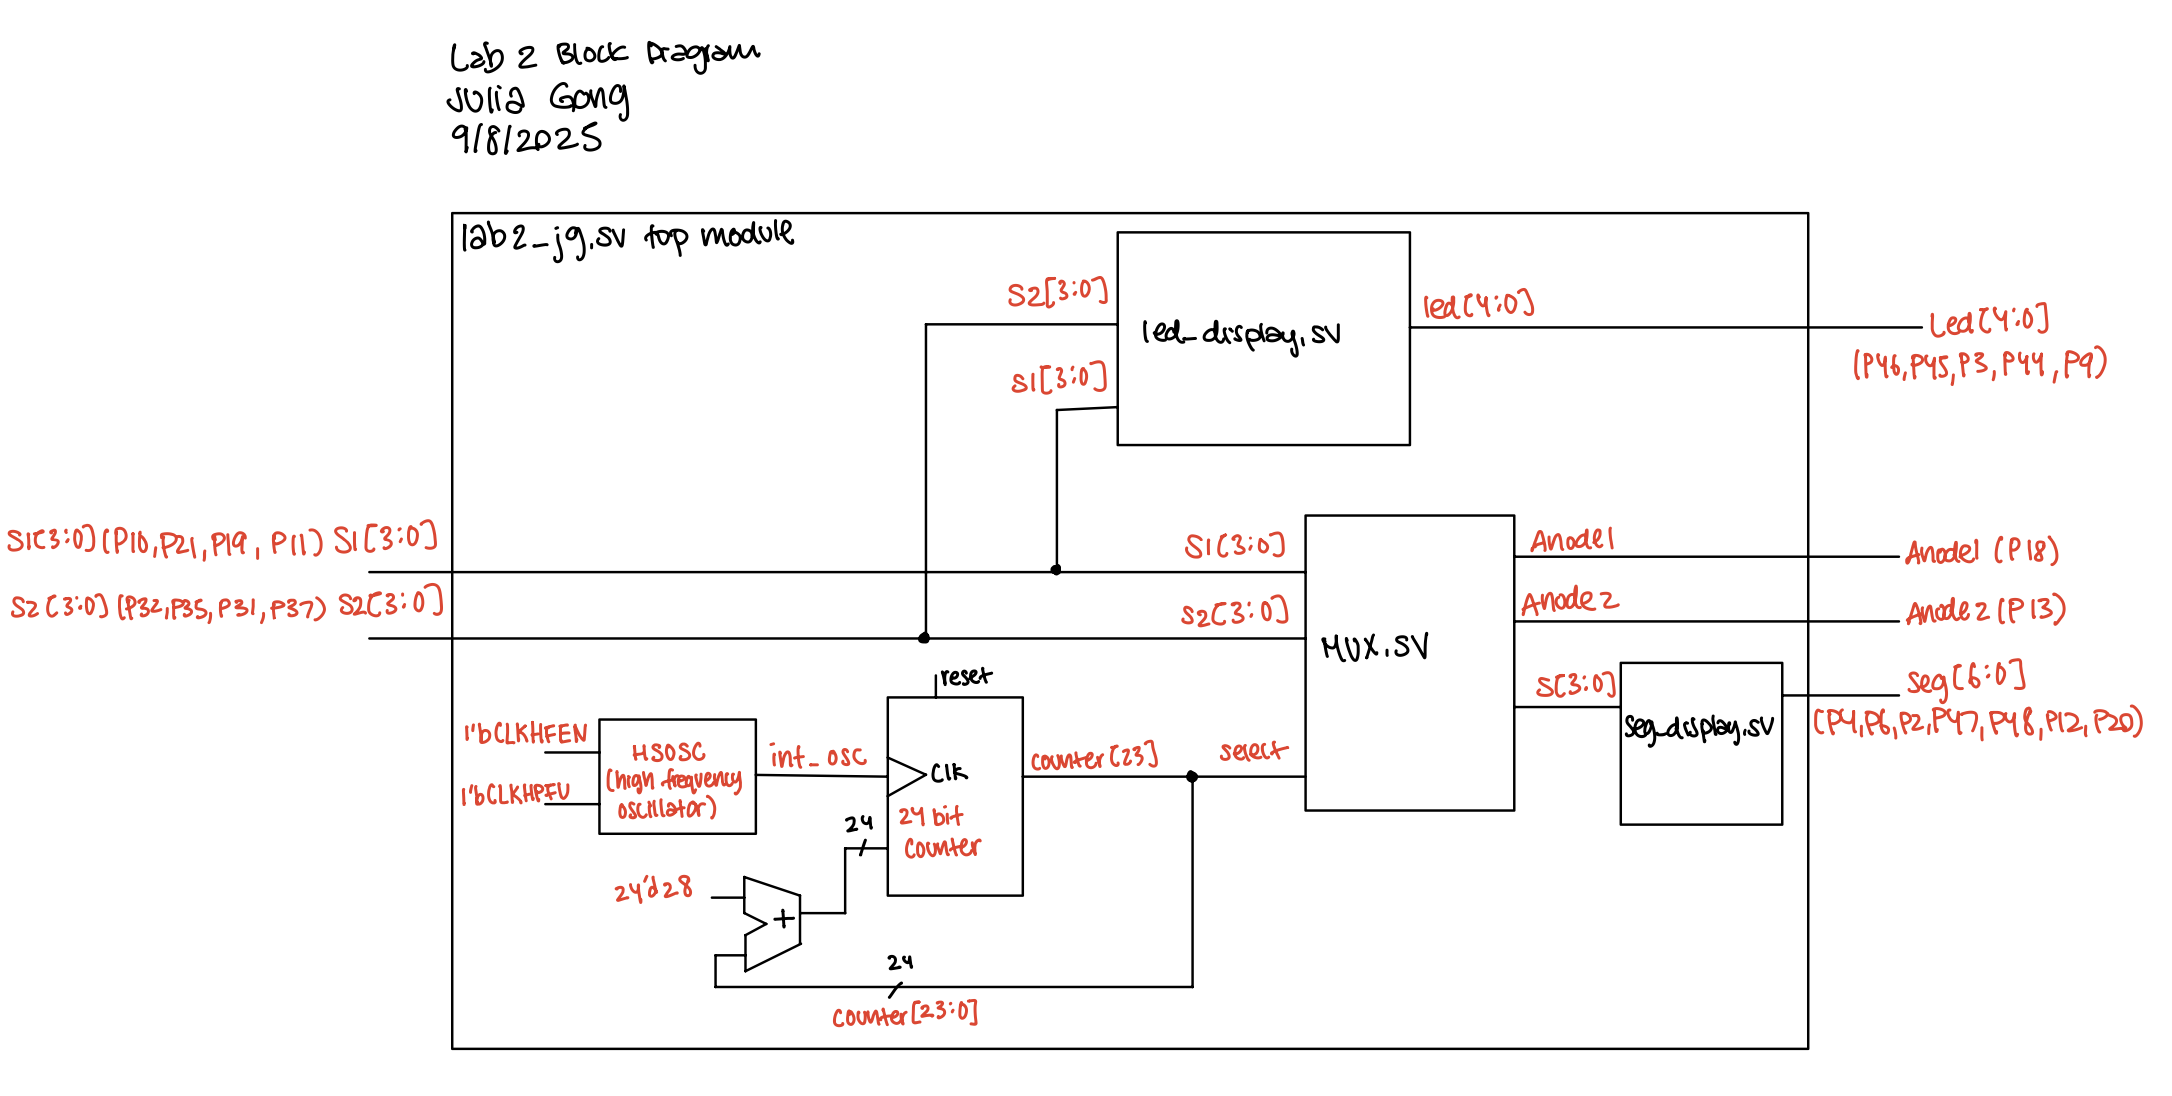
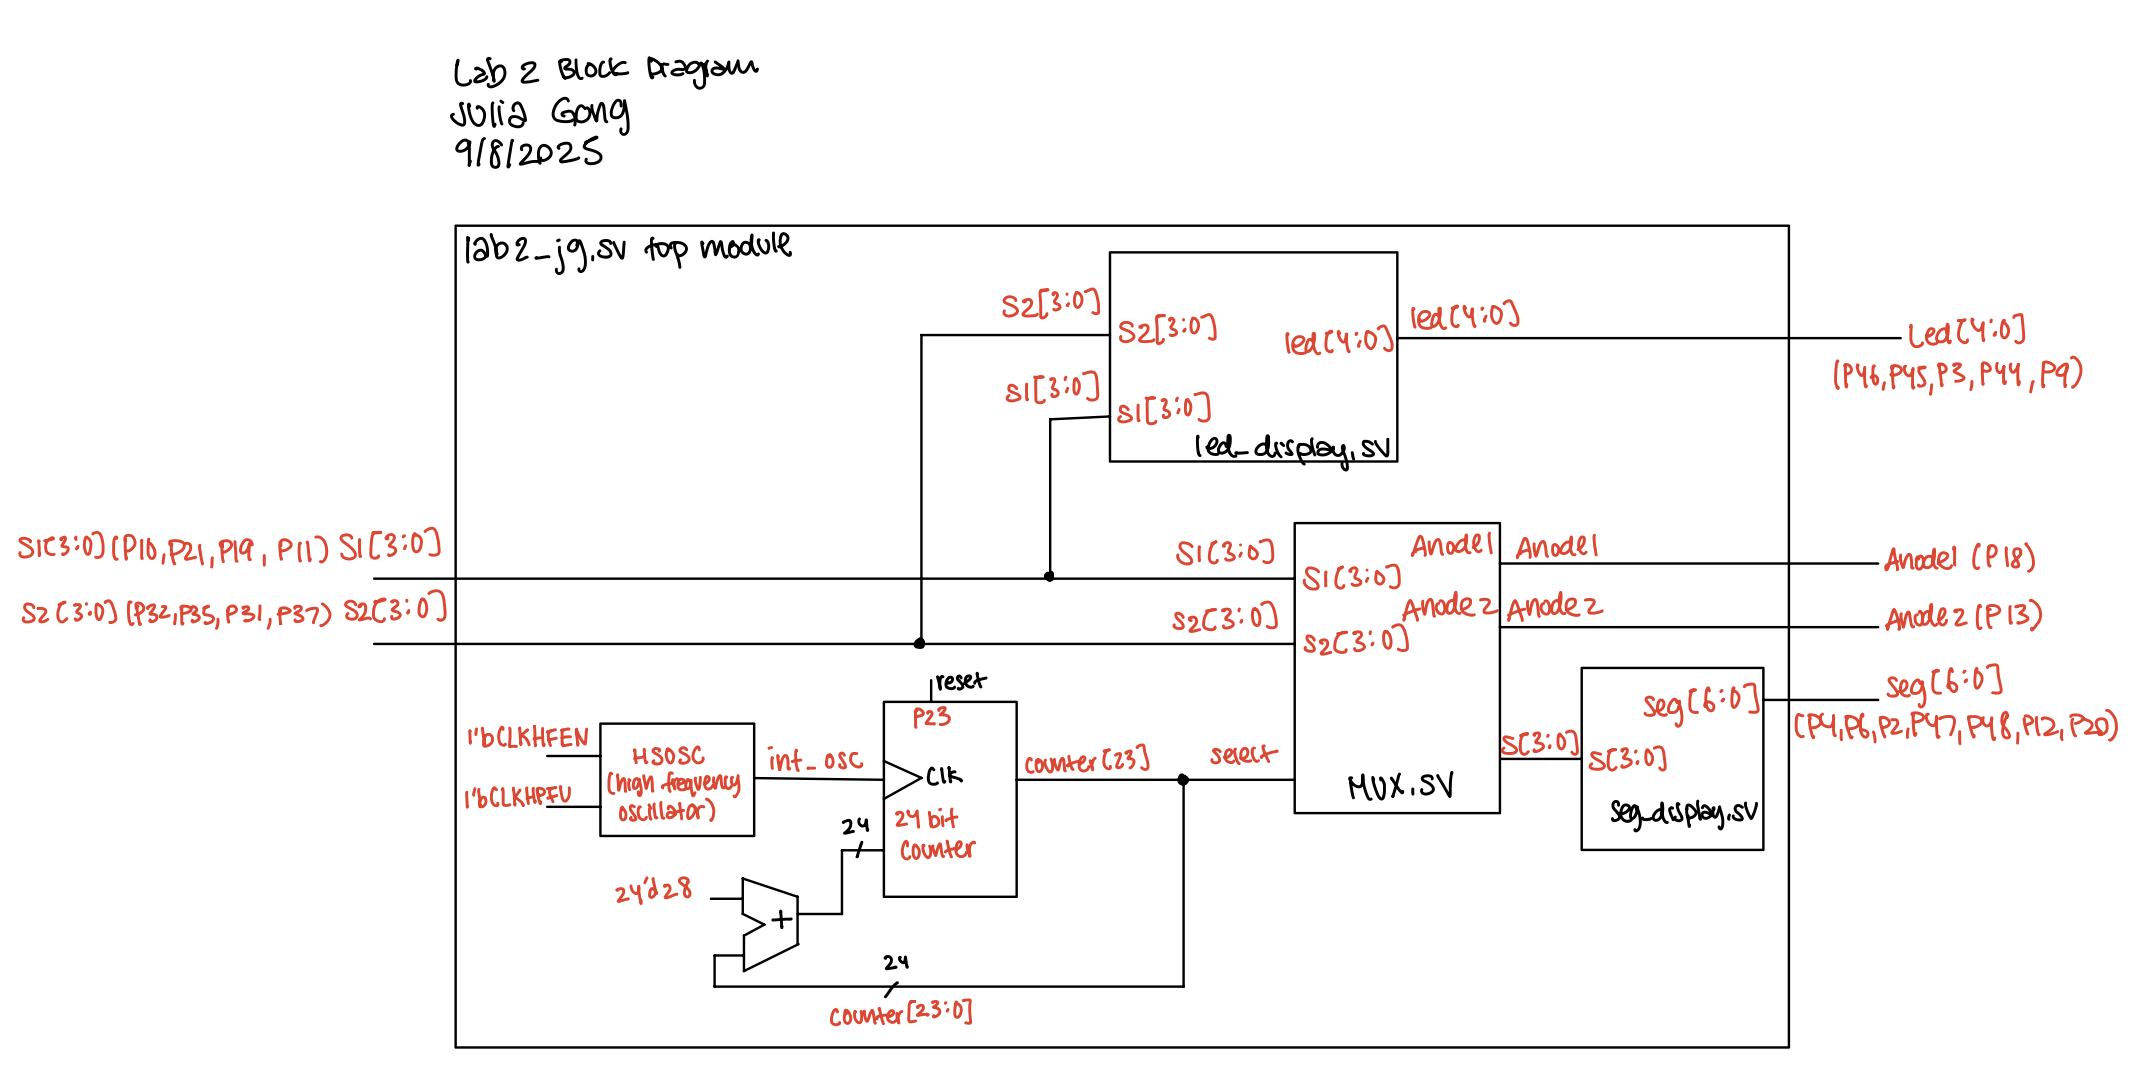
Built site for gh-pages

Changed region(s): [[0.0, 0.1872, 0.9991, 0.967], [0.1873, 0.0312, 0.3434, 0.156]]

diff --git a/Labs/lab2/lab2.html b/Labs/lab2/lab2.html
@@ -211,8 +211,9 @@ ul.task-list li input[type="checkbox"] {
 </figure>
 </div>
 <p>The components of this lab consisted of the development board, a dual 7-segment display, 5 LEDs, two 2N3906 PNP transistors, and a DIP switch.</p>
-<p>When implementing the design onto the breadboard, 220Ω resistors were used to draw current from each segment of the dual 7-segment display. The resistor values used for the 7-segment display were the same calculations as Lab 1.</p>
+<p>When implementing the design onto the breadboard, 220Ω resistors were used to draw current from each segment of the dual 7-segment display. Since there was a PNP transistor connected to the anodes, there is a Vceast of 200mV. Additionally, there is a voltage drop from the LED segment of 1.8V. Using V = IR, (3.3V - 0.2V - 1.8V)/10mA = R, where R = 130Ω.</p>
 <p>The resistors used to connect the base of the PNP transistor to the FPGA pins were 330Ω resistors. This value was calculated using V = IR, where V = 3.3V - 0.65V and Ic = 8mA. 0.65V is the base emitter saturation voltage found on the <a href="https://hmc-e155.github.io/assets/doc/2N3906-D.pdf">datasheet</a> and 8mA is the current limit.</p>
+<p>For the LEDs, the voltage drop for a red LED is approximately 2.1 V and the desired current is around 10mA. Using the equation V = IR, R = (3.3-2.1V)/20mA = 110. To ensure the proper current I used 220Ω resistors.</p>
 </section>
 </section>
 <section id="technical-documentation" class="level2">
@@ -223,7 +224,7 @@ ul.task-list li input[type="checkbox"] {
 <p>The block diagram below depicts how the input and internal signals are connected among the modules to produce the 7-segment display and LED outputs.</p>
 <div class="quarto-figure quarto-figure-center">
 <figure class="figure">
-<p><img src="images/lab2_schematic.jpeg" class="img-fluid figure-img"></p>
+<p><img src="images/lab2_block.png" class="img-fluid figure-img"></p>
 <figcaption>Figure 2: This image shows the block diagram that connects all the modules.</figcaption>
 </figure>
 </div>
@@ -233,7 +234,7 @@ ul.task-list li input[type="checkbox"] {
 <p>The schematic below depicts the pin assignments for the hardware components.</p>
 <div class="quarto-figure quarto-figure-center">
 <figure class="figure">
-<p><img src="images/lab2_block.png" class="img-fluid figure-img"></p>
+<p><img src="images/lab2_schematic.jpeg" class="img-fluid figure-img"></p>
 <figcaption>Figure 3: The image shows the schematic of the FPGA and the conections to the dual 7-segment display and LEDs.</figcaption>
 </figure>
 </div>

diff --git a/Labs/lab1/lab1.html b/Labs/lab1/lab1.html
@@ -288,7 +288,7 @@ ul.task-list li input[type="checkbox"] {
 <section id="ai-prototype-summary" class="level2">
 <h2 class="anchored" data-anchor-id="ai-prototype-summary">AI Prototype Summary</h2>
 <p>For the AI Prototype, I gave ChatGPT the following prompt: Write SystemVerilog HDL to leverage the internal high speed oscillator in the Lattice UP5K FPGA and blink an LED at 2 Hz. Take full advantage of SystemVerilog syntax, for example, using logic instead of wire and reg.</p>
-<p>The code that ChatGPT generated included several local parameters in order to cause the LED to blint at 2Hz. I do think the code produced by ChatGPT included a lot of unnecessary parameters, and the logic could be improved/simplified. The output also provided lots of detailed comments about the code as well as information With more guidance and specificity, I do think that ChatGPT could generate better code.</p>
+<p>The code that ChatGPT generated included several local parameters in order to cause the LED to blint at 2Hz. I do think the code produced by ChatGPT included a lot of unnecessary parameters, and the logic could be improved/simplified. The output also provided lots of detailed comments about the code as well as information With more guidance and specificity, I do think that ChatGPT could generate better code. After providing more context, with another prompt, ChatGPT was able to produce better code.</p>
 <p>The transcript of the chat, including the code generated, can be found <a href="https://chatgpt.com/share/68b7add1-90c8-800e-8b15-9c966d711eab">here</a>.</p>
 
 
